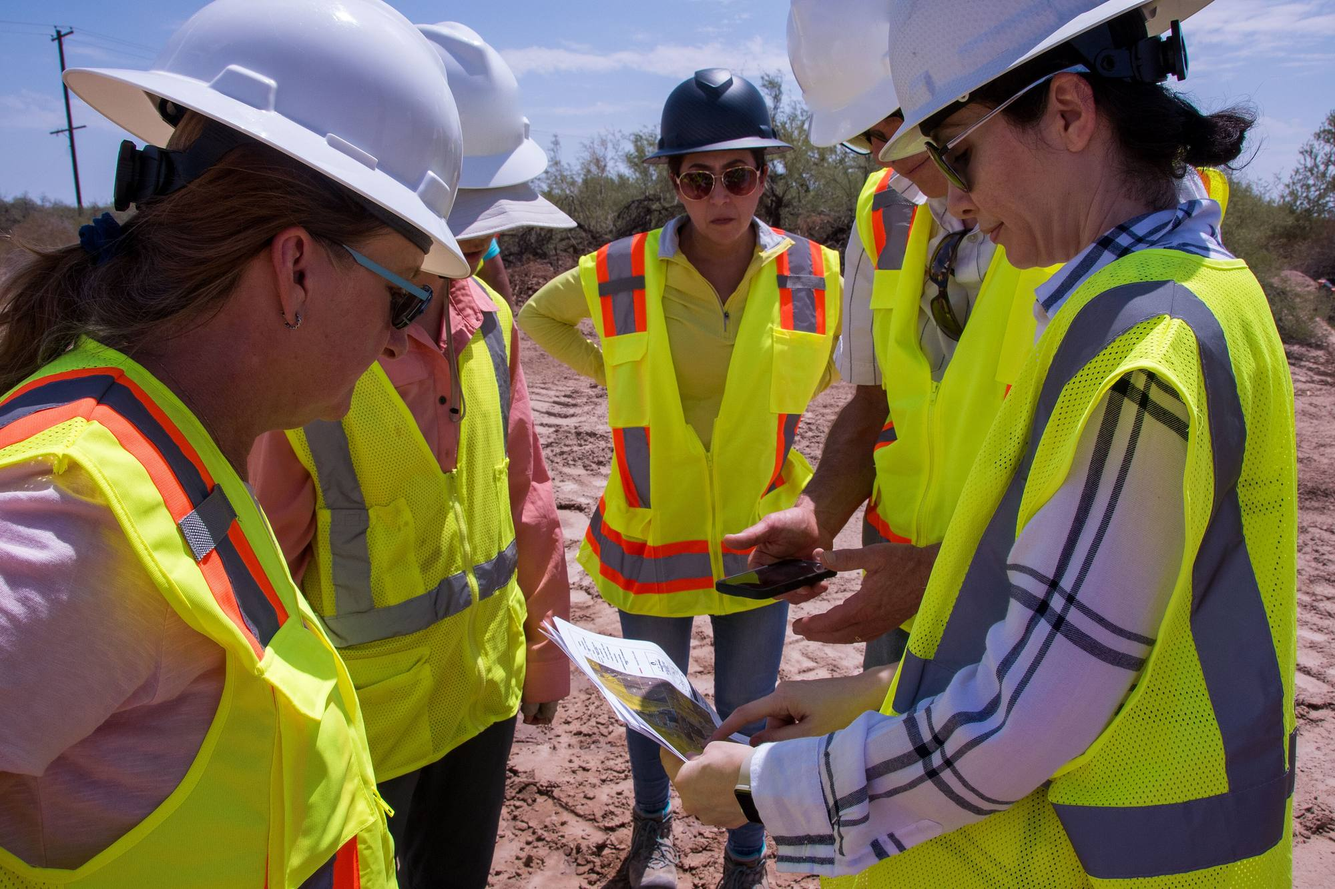
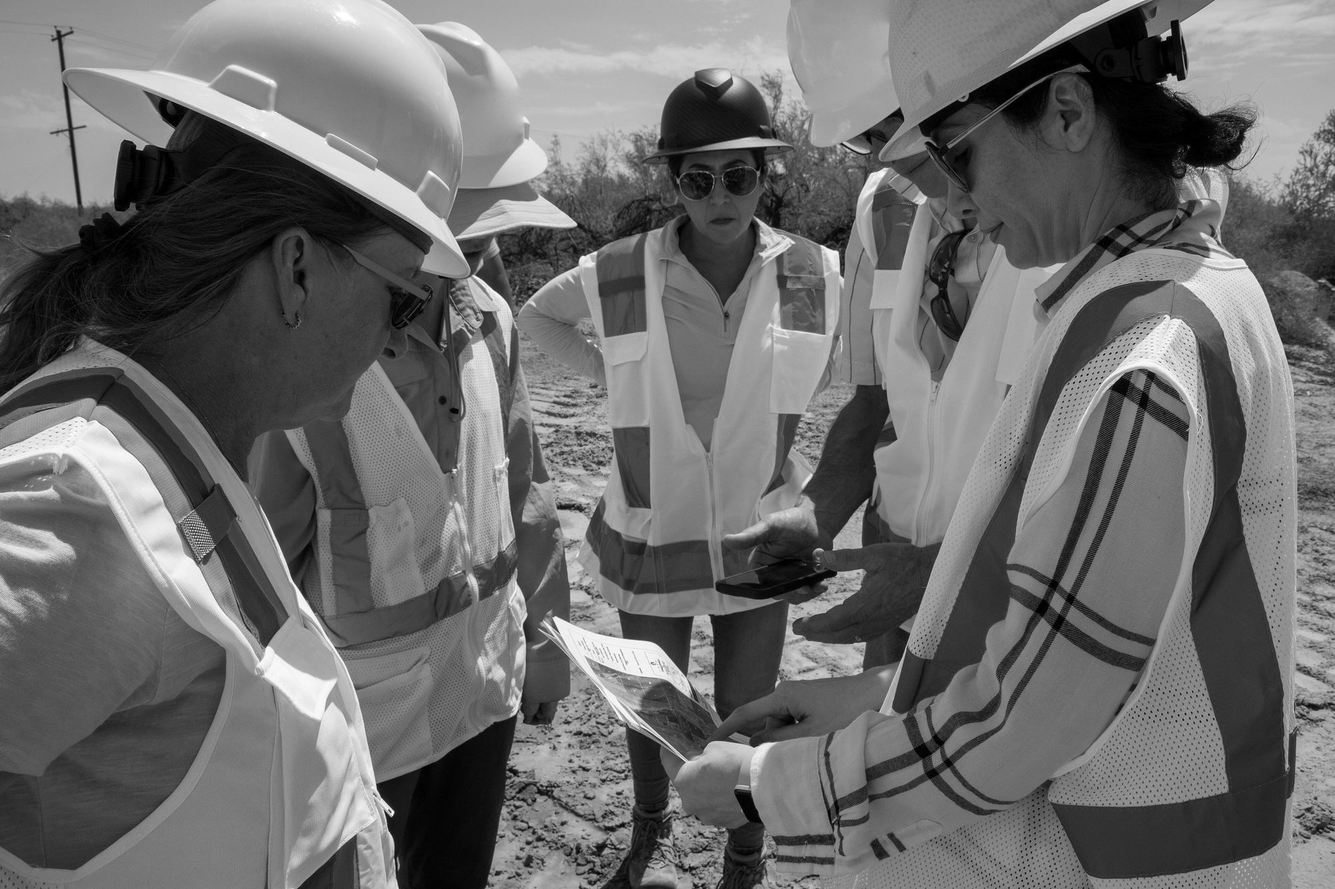
fix(site-templates): Workwear polish
The form heading reads "Sign up to join" and is uppercase, as the nav's
name and the footer's titles now are (headingCase). Both photos are
greys in the files, as every photo slot shows them, so the chooser's
thumbnail looks like the site. The hero stops growing past the window on
a phone held sideways. Contact's two columns start level under their
rules, the Events band's claim keeps together, the rule below a list is
one shared style, and the photo piece drops a branch no page used.

diff --git a/packages/sdk-components-organizeos/src/site-templates/union/workwear/index.tsx b/packages/sdk-components-organizeos/src/site-templates/union/workwear/index.tsx
@@ -23,13 +23,16 @@ import { RULE } from "./styles";
 // and button, and the Event List as ruled rows with a fixed date column.
 //
 // The photos are public domain works of United States federal agencies,
-// from Wikimedia Commons, cropped, resized and compressed. Painted out: in
+// from Wikimedia Commons, cropped, resized, turned to greys (about.jpg's
+// levels stretched, as the faded slide was) and compressed. Painted out: in
 // hero.jpg, a company's logo and slogan on a white hard hat, a company's name
 // on a navy one, a name sticker on a third (each filled with the hat's own
 // shading and grain, the third keeping the edge between its crown and brim)
 // and a round sticker at the top edge (cloned from the hat beside it); in
 // about.jpg, an ID badge on a breast pocket (filled with the pocket's cloth).
-// The hero shows its photo in greys under the denim overlay (pages/home).
+// Every photo slot shows its photo in greys too (`filter: grayscale(1)`), so
+// a photo an org puts there takes the palette as these do; the hero's lies
+// under the denim overlay (pages/home).
 
 export const workwearTemplate: SiteTemplate = {
   id: "workwear",
@@ -84,8 +87,20 @@ export const workwearTemplate: SiteTemplate = {
   },
   pages: [home, about, knowYourRights, join, events, contactPage],
   blockTokens: {
-    // The Signup Form: square fields and button, the fields 48px tall in
-    // the body size, the button the template's own (52px, denim, 500).
+    // The Signup Form: its heading set as the template's h3s are (uppercase,
+    // condensed, tracked a little), square fields and button, the fields
+    // 48px tall in the body size, the button the template's own (52px,
+    // denim, 500).
+    "OS Form Heading": css`
+      font-size: 30px;
+      font-weight: 700;
+      line-height: 1.05;
+      letter-spacing: 0.02em;
+      text-transform: uppercase;
+      ${BREAKPOINT.landscape} {
+        font-size: 26px;
+      }
+    `,
     "OS Field": css`
       row-gap: 8px;
     `,

diff --git a/packages/sdk-components-organizeos/src/site-templates/union/workwear/pages/join.tsx b/packages/sdk-components-organizeos/src/site-templates/union/workwear/pages/join.tsx
@@ -11,6 +11,7 @@ import {
   numeralStyles,
   paragraphStyles,
   ruleAboveStyles,
+  ruleBelowStyles,
   stackStyles,
 } from "../styles";
 
@@ -83,16 +84,16 @@ const signUp = ({ placeBlock }: PageContext) =>
           <ws.element
             ws:tag="ol"
             ws:label="Steps"
-            ws:style={css`
-              align-self: stretch;
-              margin-top: ${SPACE[16]};
-              margin-bottom: 0;
-              padding-left: 0;
-              list-style-type: none;
-              border-bottom-width: ${RULE};
-              border-bottom-style: solid;
-              border-bottom-color: var(--text);
-            `}
+            ws:style={[
+              ...css`
+                align-self: stretch;
+                margin-top: ${SPACE[16]};
+                margin-bottom: 0;
+                padding-left: 0;
+                list-style-type: none;
+              `,
+              ...ruleBelowStyles(),
+            ]}
           >
             {contentBlock({
               label: "Steps",
@@ -111,9 +112,9 @@ const signUp = ({ placeBlock }: PageContext) =>
           </ws.element>
         </ws.element>
         {/*
-          The form opens with its own h2, whose top margin (about 22px) adds
-          to the box's: the box gives up as much at the top, so the form sits
-          evenly in it.
+          The form opens with its own h2 (its text the template's, its look
+          "OS Form Heading" in index.tsx), whose top margin adds to the box's:
+          the box gives up as much at the top, so the form sits evenly in it.
         */}
         <ws.element
           ws:tag="div"
@@ -138,7 +139,9 @@ const signUp = ({ placeBlock }: PageContext) =>
             }
           `}
         >
-          {placeBlock("@organizeos/site-components:SignupForm", "signup")}
+          {placeBlock("@organizeos/site-components:SignupForm", "signup", {
+            heading: "Sign up to join",
+          })}
         </ws.element>
       </ws.element>
     ),

diff --git a/packages/sdk-components-organizeos/src/site-templates/union/workwear/parts.tsx b/packages/sdk-components-organizeos/src/site-templates/union/workwear/parts.tsx
@@ -74,6 +74,7 @@ export const siteFooter = (pageIds: PageIds): JSX.Element =>
       </ws.element>
     ),
     headingWeight: LOOK.headingWeight,
+    headingCase: LOOK.headingCase,
   });
 
 export const quietLink = (pageIds: PageIds, link: SiteLink): JSX.Element => (
@@ -98,15 +99,14 @@ export const button = (
 );
 
 /**
- * A square photo at a fixed ratio (`4 / 5`), cropped to fill it, over an
+ * A square photo at a fixed ratio (`4 / 5`), cropped to fill it, in greys
+ * as the hero's is (any photo takes the cool palette the same way), over an
  * accent-1 field that shows when the photo is gone. `phoneRatio` replaces
- * the ratio below 768px, and `phonePosition` the crop. With no file it is
- * the builder's placeholder, the "put your image here" slot a Content
- * Block's new item starts with.
+ * the ratio below 768px, and `phonePosition` the crop.
  */
 export const photo = (
   { image, imageAlt }: PageContext,
-  file: string | undefined,
+  file: string,
   {
     ratio,
     phoneRatio = ratio,
@@ -121,9 +121,8 @@ export const photo = (
 ): JSX.Element => (
   <$.Image
     ws:label="Photo"
-    {...(file === undefined
-      ? { alt: "Replace with a photo" }
-      : { src: image(file), alt: imageAlt(file) })}
+    src={image(file)}
+    alt={imageAlt(file)}
     ws:style={css`
       display: block;
       width: 100%;
@@ -132,6 +131,7 @@ export const photo = (
       object-fit: cover;
       object-position: ${position};
       background-color: var(--accent-1);
+      filter: grayscale(1);
       ${BREAKPOINT.landscape} {
         aspect-ratio: ${phoneRatio};
         object-position: ${phonePosition};

diff --git a/packages/sdk-components-organizeos/src/site-templates/union/workwear/pages/contact.tsx b/packages/sdk-components-organizeos/src/site-templates/union/workwear/pages/contact.tsx
@@ -11,12 +11,12 @@ import type { SiteTemplatePage } from "../../../types";
 import { JOIN, siteFooter, siteNav } from "../parts";
 import { ctaBand, pageHeader } from "../sections";
 import {
-  RULE,
   bodyStyles,
   headingStyles,
   labelStyles,
   paragraphStyles,
   ruleAboveStyles,
+  ruleBelowStyles,
   stackStyles,
   subheadingStyles,
 } from "../styles";
@@ -106,7 +106,7 @@ const contact = () =>
             ...ruleAboveStyles(),
             ...stackStyles(SPACE[24]),
             ...css`
-              padding-top: ${SPACE[24]};
+              padding-top: ${SPACE[16]};
             `,
           ]}
         >
@@ -128,11 +128,7 @@ const contact = () =>
         <ws.element
           ws:tag="div"
           ws:label="Methods"
-          ws:style={css`
-            border-bottom-width: ${RULE};
-            border-bottom-style: solid;
-            border-bottom-color: var(--text);
-          `}
+          ws:style={ruleBelowStyles()}
         >
           {contentBlock({
             label: "Contact methods",

diff --git a/packages/sdk-components-organizeos/src/site-templates/union/workwear/pages/home.tsx b/packages/sdk-components-organizeos/src/site-templates/union/workwear/pages/home.tsx
@@ -36,7 +36,9 @@ const denim = (alpha: number) =>
  * own accent-1 shows, a plain denim field.
  * The label, an uppercase headline of up to three lines, one sentence and
  * one inverted Join button sit bottom-left. The hero is 4:5 on a portrait
- * phone and square on a landscape one, and grows when its text needs more.
+ * phone, and square from 480px to 767px, but no taller than the window less
+ * the nav's two rows and the hero's padding, so on a phone held sideways the
+ * text starts above the fold; it grows when its text needs more.
  */
 const hero = (context: PageContext) =>
   section({
@@ -105,7 +107,7 @@ const hero = (context: PageContext) =>
           min-height: clamp(380px, 38vw + 40px, 600px);
           ${BREAKPOINT.landscape} {
             row-gap: ${SPACE[16]};
-            min-height: calc(100vw - 112px);
+            min-height: min(calc(100vw - 112px), calc(100vh - 240px));
           }
           ${BREAKPOINT.portrait} {
             min-height: calc(125vw - 112px);

diff --git a/packages/sdk-components-organizeos/src/site-templates/union/workwear/styles.ts b/packages/sdk-components-organizeos/src/site-templates/union/workwear/styles.ts
@@ -19,10 +19,14 @@ import {
 // ring pass and small text does not. The styles every piece and page draws
 // with.
 
-/** The template's corners (square: none set) and weights, for the kit. */
+/**
+ * The template's corners (square: none set), weights and heading case, for
+ * the kit: its name and footer titles are set as the headings are.
+ */
 export const LOOK: KitStyle = {
   buttonWeight: 500,
   headingWeight: 700,
+  headingCase: "uppercase",
 };
 
 /** The page's own type and colours, which every section inherits. */
@@ -149,6 +153,13 @@ export const ruleAboveStyles = (): TemplateStyleDecl[] => css`
   border-top-width: ${RULE};
   border-top-style: solid;
   border-top-color: currentcolor;
+`;
+
+/** A full-width rule below a list, closing its last item's row. */
+export const ruleBelowStyles = (): TemplateStyleDecl[] => css`
+  border-bottom-width: ${RULE};
+  border-bottom-style: solid;
+  border-bottom-color: currentcolor;
 `;
 
 /** A stack of children with a gap. */

diff --git a/packages/sdk-components-organizeos/src/site-templates/union/workwear/sections.tsx b/packages/sdk-components-organizeos/src/site-templates/union/workwear/sections.tsx
@@ -21,6 +21,7 @@ import {
   outlinedButtonStyles,
   paragraphStyles,
   ruleAboveStyles,
+  ruleBelowStyles,
   ruledCellStyles,
   ruledGridStyles,
   stackStyles,
@@ -154,15 +155,7 @@ export const valuesList = ({
     label: "Mission and values: List",
     children: keyed([
       sectionHeader({ pageIds, label: "Mission", heading, intro, link }),
-      <ws.element
-        ws:tag="div"
-        ws:label="Values"
-        ws:style={css`
-          border-bottom-width: ${RULE};
-          border-bottom-style: solid;
-          border-bottom-color: var(--text);
-        `}
-      >
+      <ws.element ws:tag="div" ws:label="Values" ws:style={ruleBelowStyles()}>
         {contentBlock({
           label: "Values",
           template: value(["[00]", "[Value]", "[What it means at work.]"]),

diff --git a/packages/sdk-components-organizeos/src/site-templates/union/workwear/pages/know-your-rights.tsx b/packages/sdk-components-organizeos/src/site-templates/union/workwear/pages/know-your-rights.tsx
@@ -11,11 +11,11 @@ import type { PageContext, SiteTemplatePage } from "../../../types";
 import { quietLink, sectionHeader, siteFooter, siteNav } from "../parts";
 import { ctaBand, faqSection, pageHeader } from "../sections";
 import {
-  RULE,
   bodyStyles,
   labelStyles,
   paragraphStyles,
   ruleAboveStyles,
+  ruleBelowStyles,
   stackStyles,
   subheadingStyles,
 } from "../styles";
@@ -82,11 +82,7 @@ const resources = (context: PageContext) =>
       <ws.element
         ws:tag="div"
         ws:label="Resources"
-        ws:style={css`
-          border-bottom-width: ${RULE};
-          border-bottom-style: solid;
-          border-bottom-color: var(--text);
-        `}
+        ws:style={ruleBelowStyles()}
       >
         {contentBlock({
           label: "Resources",

diff --git a/packages/sdk-components-organizeos/src/site-templates/union/workwear/pages/events.tsx b/packages/sdk-components-organizeos/src/site-templates/union/workwear/pages/events.tsx
@@ -33,7 +33,7 @@ export const events: SiteTemplatePage = {
       })}
       {ctaBand({
         pageIds: context.pageIds,
-        heading: "Not a member yet? Join first",
+        heading: "Join before the next meeting",
         body: "Say what a member can do at meetings, and how soon after joining.",
         link: JOIN,
       })}
